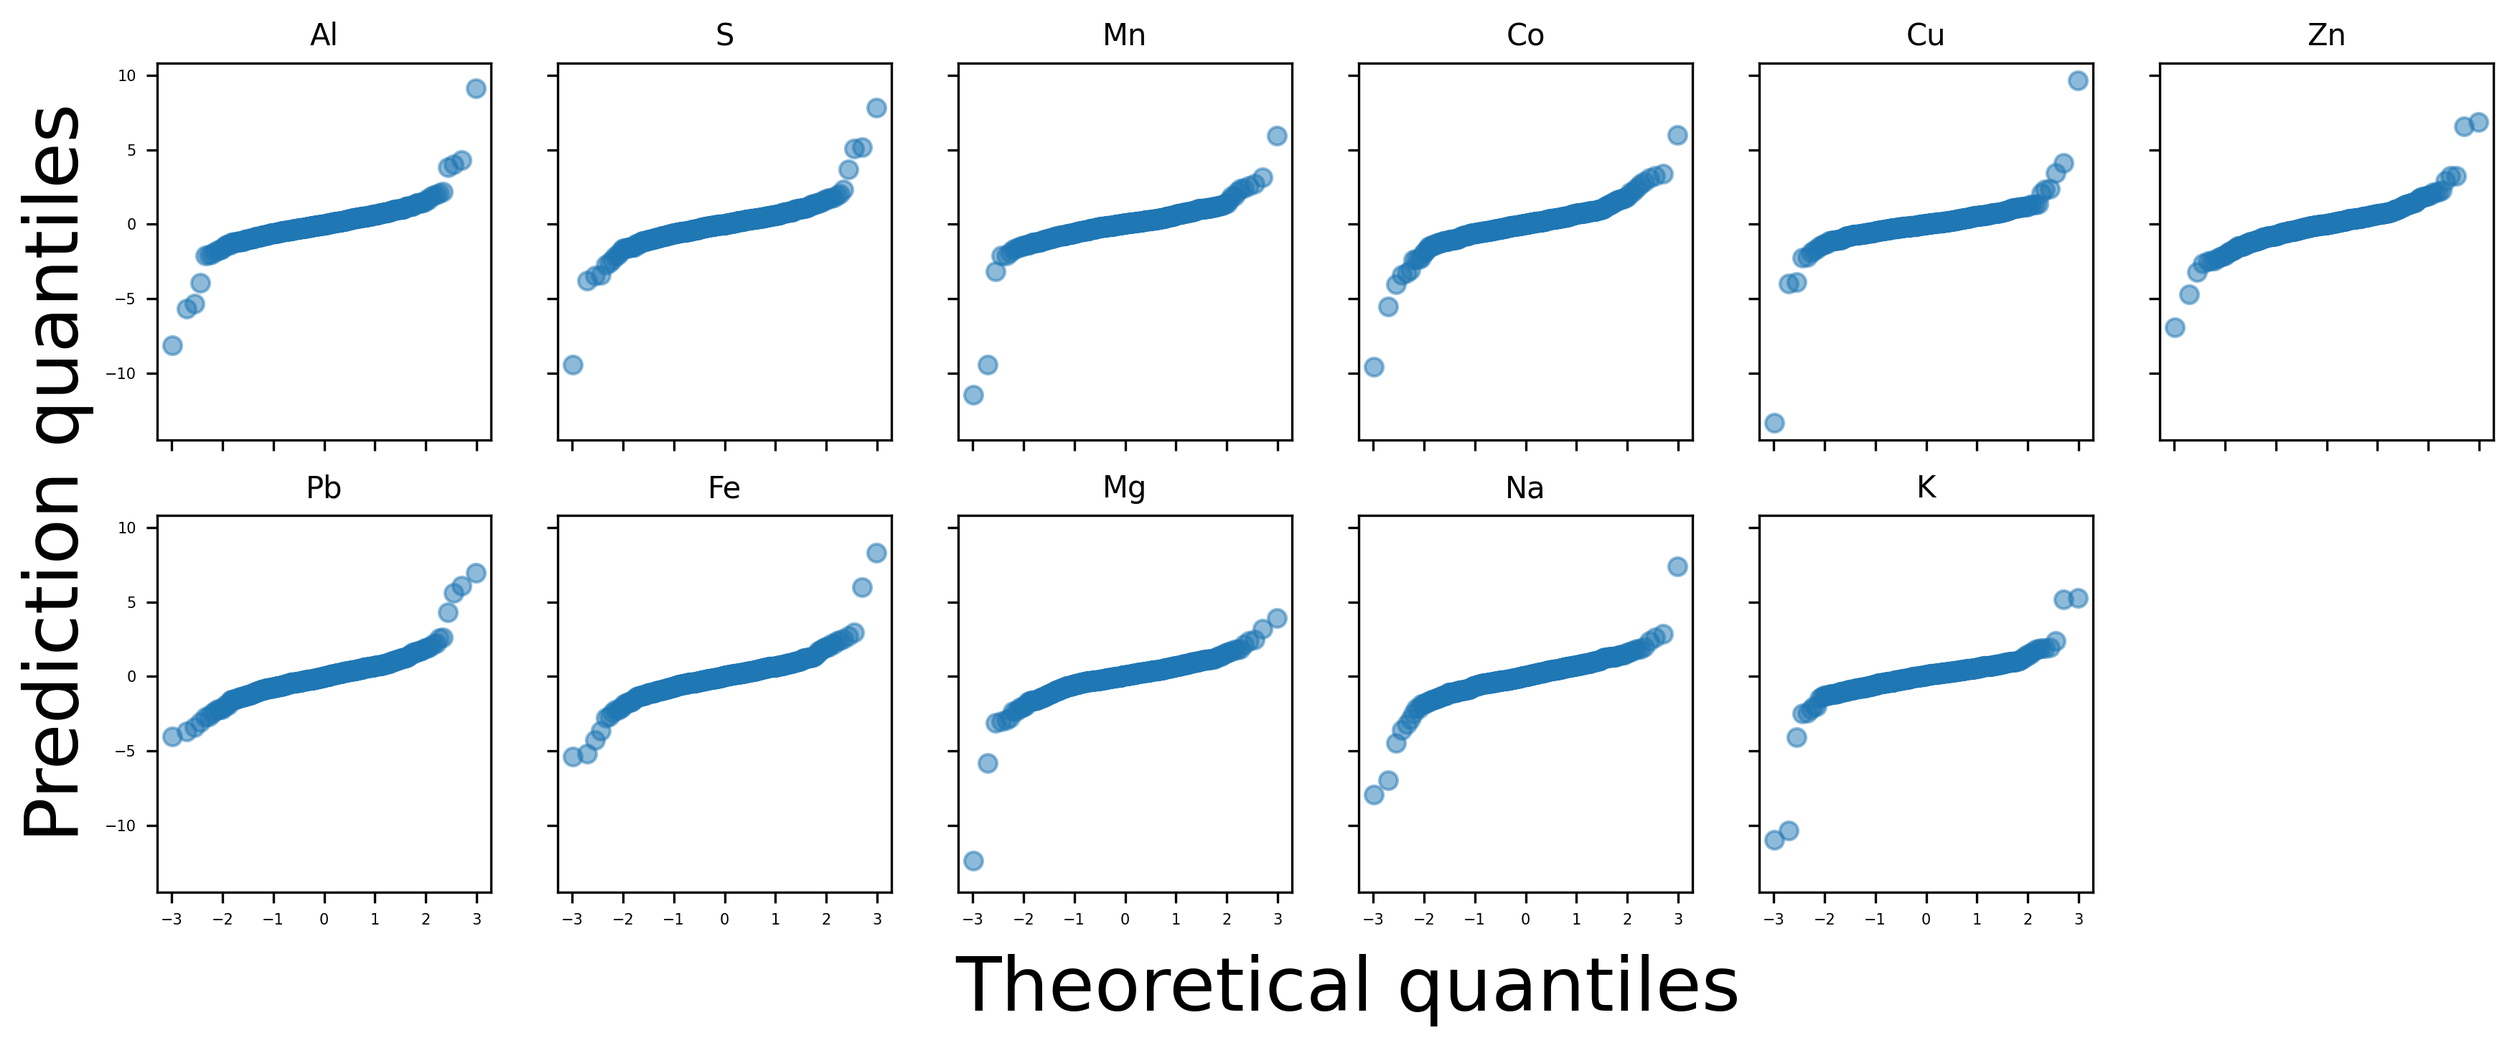
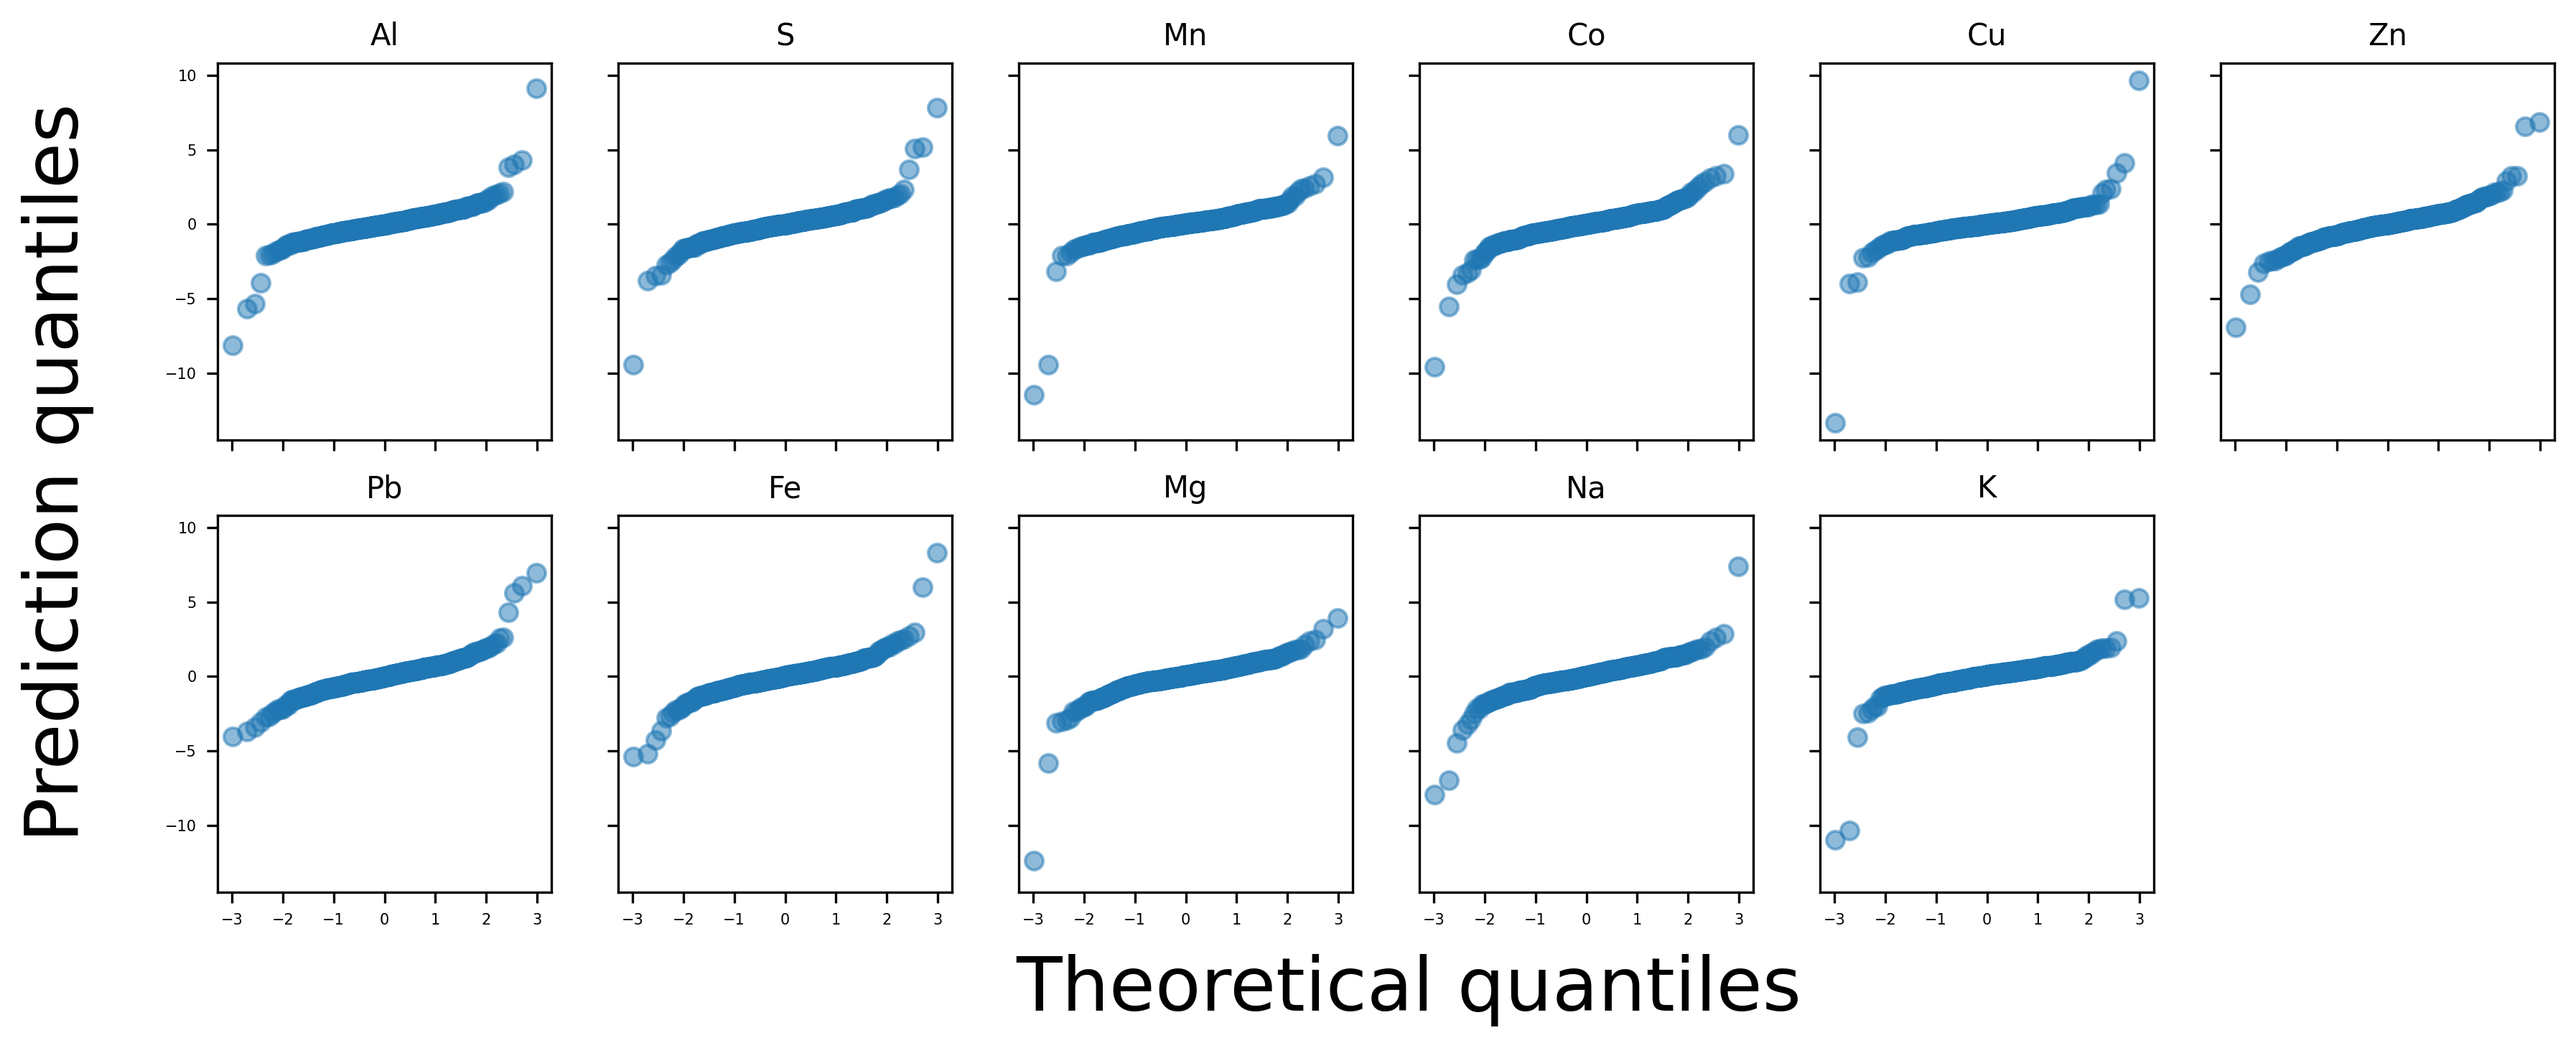
New figure: density overlayed and some small fixes

diff --git a/analysis/4_neural_network_validation.py b/analysis/4_neural_network_validation.py
@@ -161,45 +161,40 @@ print(torch.mean(difference, axis=0))
 # Significance of elements: Cu >> Mn > Al > Zn > Pb > S > Cr > Co >> all the others.
 
 # BASIC DIAGNOSTIC PLOTS
-if mode == "training":
+# if mode == "training":
 
-    plot_pred_vs_gt(to_numpy(outputs), to_numpy(labels), ELEMENTS_TO_KEEP, dims_to_keep=dims_to_keep, nrows=nrows, xlabel='Logarithmed true value', ylabel='Logarithmed prediction', path_to_save=FIGURES_PATH)
+    # plot_pred_vs_gt(to_numpy(outputs), to_numpy(labels), ELEMENTS_TO_KEEP, dims_to_keep=dims_to_keep, nrows=nrows, xlabel='Logarithmed true value', ylabel='Logarithmed prediction', path_to_save=FIGURES_PATH)
 
-    plot_residuals(to_numpy(outputs), to_numpy(labels), ELEMENTS_TO_KEEP, dims_to_keep=dims_to_keep, nrows=nrows, xlabel='Logarithmed true value', path_to_save=FIGURES_PATH)
+    # plot_residuals(to_numpy(outputs), to_numpy(labels), ELEMENTS_TO_KEEP, dims_to_keep=dims_to_keep, nrows=nrows, xlabel='Logarithmed true value', path_to_save=FIGURES_PATH)
 
-    plot_error_distributions(to_numpy(outputs), to_numpy(labels), ELEMENTS_TO_KEEP, dims_to_keep=dims_to_keep, nrows=nrows, xlabel='Residual', ylabel='Count', path_to_save=FIGURES_PATH)
+    # plot_error_distributions(to_numpy(outputs), to_numpy(labels), ELEMENTS_TO_KEEP, dims_to_keep=dims_to_keep, nrows=nrows, xlabel='Residual', ylabel='Count', path_to_save=FIGURES_PATH)
 
-    plot_qq(to_numpy(outputs), to_numpy(labels), ELEMENTS_TO_KEEP, dims_to_keep=dims_to_keep, nrows=nrows, xlabel='Theoretical quantiles', ylabel='Prediction quantiles', path_to_save=FIGURES_PATH)
+#     plot_qq(to_numpy(outputs), to_numpy(labels), ELEMENTS_TO_KEEP, dims_to_keep=dims_to_keep, nrows=nrows, xlabel='Theoretical quantiles', ylabel='Prediction quantiles', path_to_save=FIGURES_PATH)
 
-    plot_error_boxplot(to_numpy(outputs), to_numpy(labels), ELEMENTS_TO_KEEP, dims_to_keep=dims_to_keep, xlabel='', ylabel='Residual', path_to_save=FIGURES_PATH)
 
-    plot_error_violinplot(to_numpy(outputs), to_numpy(labels), ELEMENTS_TO_KEEP, dims_to_keep=dims_to_keep, xlabel='', ylabel='Residual', path_to_save=FIGURES_PATH)
+# if mode == "training_subset":
 
-    plot_correlation_heatmaps(to_numpy(outputs), to_numpy(labels), ELEMENTS_TO_KEEP, xlabel='', ylabel='Residual', cluster=True, path_to_save=FIGURES_PATH)
+#     plot_pred_vs_gt(to_numpy(outputs), to_numpy(labels), ELEMENTS_TO_KEEP, dims_to_keep=[1, 3, 4, 7, 9, 10], nrows=nrows, figsize=(14, 5), xlabel='Logarithmed true value', ylabel='Logarithmed prediction', path_to_save=FIGURES_PATH)
 
-    plot_l2_error(to_numpy(outputs), to_numpy(labels), path_to_save=FIGURES_PATH)
+    # plot_residuals(to_numpy(outputs), to_numpy(labels), ELEMENTS_TO_KEEP, dims_to_keep=dims_to_keep, nrows=nrows, figsize=(8, 5), xlabel='Logarithmed true value', path_to_save=FIGURES_PATH)
 
-    plot_pca_projection(to_numpy(outputs), to_numpy(labels), path_to_save=FIGURES_PATH)
+    # plot_error_distributions(to_numpy(outputs), to_numpy(labels), ELEMENTS_TO_KEEP, dims_to_keep=dims_to_keep, nrows=nrows, figsize=(8, 5), xlabel='Residual', ylabel='Count', path_to_save=FIGURES_PATH)
 
-if mode == "training_subset":
+    # plot_qq(to_numpy(outputs), to_numpy(labels), ELEMENTS_TO_KEEP, dims_to_keep=dims_to_keep, nrows=nrows, figsize=(8, 5), xlabel='Theoretical quantiles', ylabel='Prediction quantiles', path_to_save=FIGURES_PATH)
 
-    plot_pred_vs_gt(to_numpy(outputs), to_numpy(labels), ELEMENTS_TO_KEEP, dims_to_keep=[1, 3, 4, 7, 9, 10], nrows=nrows, figsize=(14, 5), xlabel='Logarithmed true value', ylabel='Logarithmed prediction', path_to_save=FIGURES_PATH)
+# plot_error_boxplot(to_numpy(outputs), to_numpy(labels), ELEMENTS_TO_KEEP, dims_to_keep='all', xlabel='', ylabel='Residual', path_to_save=FIGURES_PATH)
 
-    plot_residuals(to_numpy(outputs), to_numpy(labels), ELEMENTS_TO_KEEP, dims_to_keep=dims_to_keep, nrows=nrows, figsize=(8, 5), xlabel='Logarithmed true value', path_to_save=FIGURES_PATH)
+# plot_error_violinplot(to_numpy(outputs), to_numpy(labels), ELEMENTS_TO_KEEP, dims_to_keep='all', xlabel='', ylabel='Residual', path_to_save=FIGURES_PATH)
 
-    plot_error_distributions(to_numpy(outputs), to_numpy(labels), ELEMENTS_TO_KEEP, dims_to_keep=dims_to_keep, nrows=nrows, figsize=(8, 5), xlabel='Residual', ylabel='Count', path_to_save=FIGURES_PATH)
+# plot_correlation_heatmaps(to_numpy(outputs), to_numpy(labels), ELEMENTS_TO_KEEP, xlabel='', ylabel='Residual', cluster=True, path_to_save=FIGURES_PATH)
 
-    plot_qq(to_numpy(outputs), to_numpy(labels), ELEMENTS_TO_KEEP, dims_to_keep=dims_to_keep, nrows=nrows, figsize=(8, 5), xlabel='Theoretical quantiles', ylabel='Prediction quantiles', path_to_save=FIGURES_PATH)
+# plot_l1_error(to_numpy(outputs), to_numpy(labels), path_to_save=FIGURES_PATH)
 
-    plot_error_boxplot(to_numpy(outputs), to_numpy(labels), ELEMENTS_TO_KEEP, dims_to_keep='all', xlabel='', ylabel='Residual', path_to_save=FIGURES_PATH)
+plot_l1_error_with_density(to_numpy(outputs), to_numpy(labels), path_to_save=FIGURES_PATH)
 
-    plot_error_violinplot(to_numpy(outputs), to_numpy(labels), ELEMENTS_TO_KEEP, dims_to_keep='all', xlabel='', ylabel='Residual', path_to_save=FIGURES_PATH)
+# plot_pca_projection(to_numpy(outputs), to_numpy(labels), path_to_save=FIGURES_PATH)
 
-    plot_correlation_heatmaps(to_numpy(outputs), to_numpy(labels), ELEMENTS_TO_KEEP, xlabel='', ylabel='Residual', cluster=True, path_to_save=FIGURES_PATH)
 
-    plot_l2_error(to_numpy(outputs), to_numpy(labels), path_to_save=FIGURES_PATH)
-
-    plot_pca_projection(to_numpy(outputs), to_numpy(labels), path_to_save=FIGURES_PATH)
 
 
 # for element_nr, element in enumerate(ELEMENTS_TO_KEEP):
@@ -239,20 +234,20 @@ precision, recall = compute_precision_and_recall(outputs_df)
 y_true = outputs_df['Real sample_id']
 y_pred = outputs_df['Closest sample id']
 
-plot_topk_confusion(y_true, y_pred, top_k=20, path_to_save=FIGURES_PATH)
+# plot_topk_confusion(y_true, y_pred, top_k=20, path_to_save=FIGURES_PATH)
 
-plot_prf_distribution_subplots(y_true, y_pred, path_to_save=FIGURES_PATH)
+# plot_prf_distribution_subplots(y_true, y_pred, path_to_save=FIGURES_PATH)
 
-plot_freq_vs_f1(y_true, y_pred, path_to_save=FIGURES_PATH)
+# plot_freq_vs_f1(y_true, y_pred, path_to_save=FIGURES_PATH)
 
 
 # CLASSIFICATION-BASED STATISTICS AND VISUALISATIONS PART 2
 
 
-plot_confusion_matrix(true_labels = outputs_df['Real sample_id'], 
-                      closest_labels = outputs_df['Closest sample id'], 
-                      normalization_in_conf_mat = None, 
-                      path_to_save = FIGURES_PATH)
+# plot_confusion_matrix(true_labels = outputs_df['Real sample_id'], 
+#                       closest_labels = outputs_df['Closest sample id'], 
+#                       normalization_in_conf_mat = None, 
+#                       path_to_save = FIGURES_PATH)
 
 
 # Quality of prediction: confidence intervals

diff --git a/src/train_and_evaluate.py b/src/train_and_evaluate.py
@@ -17,6 +17,7 @@ from scipy.stats import probplot
 from scipy.cluster.hierarchy import linkage, leaves_list
 from sklearn.decomposition import PCA
 from collections import Counter
+from astropy.convolution import Gaussian2DKernel, convolve
 
 import torch.optim as optim
 import optuna
@@ -287,7 +288,7 @@ def plot_pred_vs_gt(outputs, labels, elements_to_keep, dims_to_keep='all', nrows
 
         text = f"R$^2$={metrics['r2'][i]:.2f} \nMAE={metrics['mae'][i]:.2f} \nRMSE={metrics['rmse'][i]:.2f}"
 
-        ax.text(min_val, max_val-(0.13*nrows)*(max_val-min_val), text)
+        ax.text(min_val, max_val-(0.10+0.16*(nrows-1))*(max_val-min_val), text)
         #ax.text(min_val, y_max_max-0.45*nrows, text)
 
         ax.set_title(title, size=10)
@@ -297,7 +298,7 @@ def plot_pred_vs_gt(outputs, labels, elements_to_keep, dims_to_keep='all', nrows
         axes[-1].set_axis_off()
 
     fig.text(0.52, 0.0, xlabel, ha='center', size=25)
-    fig.text(0.06, 0.55, ylabel, va='center', rotation='vertical', size=25)
+    fig.text(0.08, 0.5, ylabel, va='center', rotation='vertical', size=25)
 
     #plt.tight_layout()
     if path_to_save:
@@ -345,7 +346,7 @@ def plot_residuals(outputs, labels, elements_to_keep, dims_to_keep='all', nrows=
         y_max = (y_pred-y_true).max()
         y_min = (y_pred-y_true).min()
         text = 'Mean residual: \n' + str(np.round(mean_res, 3))
-        ax.text(min_val, y_max_max-0.45*nrows, text)
+        ax.text(min_val, y_max_max-0.25-0.65*(nrows-1), text)
 
         ax.tick_params(axis='both', labelsize=5)
         ax.set_title(title, size=10)
@@ -353,8 +354,8 @@ def plot_residuals(outputs, labels, elements_to_keep, dims_to_keep='all', nrows=
     if nrows==2:
         axes[-1].set_axis_off()
 
-    fig.text(0.52, 0.0, xlabel, ha='center', size=25)
-    fig.text(0.06, 0.55, ylabel, va='center', rotation='vertical', size=25)
+    fig.text(0.5, 0.0, xlabel, ha='center', size=25)
+    fig.text(0.04, 0.5, ylabel, va='center', rotation='vertical', size=25)
 
     #plt.tight_layout()
     if path_to_save:
@@ -453,7 +454,7 @@ def plot_qq(outputs, labels, elements_to_keep, dims_to_keep='all', nrows=2, figs
         axes[-1].set_axis_off()
 
     fig.text(0.52, 0.0, xlabel, ha='center', size=25)
-    fig.text(0.08, 0.5, ylabel, va='center', rotation='vertical', size=25)
+    fig.text(0.06, 0.5, ylabel, va='center', rotation='vertical', size=25)
 
     #plt.tight_layout()
     if path_to_save:
@@ -478,7 +479,7 @@ def plot_error_boxplot(outputs, labels, elements_to_keep, dims_to_keep='all', fi
     ax = sns.boxplot(data=residuals_all)
     fig.text(0.52, 0.03, xlabel, ha='center', size=25)
     fig.text(0.05, 0.5, ylabel, va='center', rotation='vertical', size=25)
-    ax.set_xticklabels(elements_to_keep, size=10)
+    ax.set_xticklabels(elements_to_keep, size=25)
     ax.tick_params(axis='y', labelsize=5)
 
     if path_to_save:
@@ -503,7 +504,7 @@ def plot_error_violinplot(outputs, labels, elements_to_keep, dims_to_keep='all',
     ax = sns.violinplot(data=residuals_all)
     fig.text(0.52, 0.03, xlabel, ha='center', size=25)
     fig.text(0.05, 0.5, ylabel, va='center', rotation='vertical', size=25)
-    ax.set_xticklabels(elements_to_keep, size=10)
+    ax.set_xticklabels(elements_to_keep, size=25)
     ax.tick_params(axis='y', labelsize=5)
 
     if path_to_save:
@@ -574,7 +575,7 @@ def plot_correlation_heatmaps_for_target_data(prediction, elements_to_keep, data
     plt.close(fig)
 
 
-def plot_l2_error(outputs, labels, figsize=(10, 5), path_to_save=None):
+def plot_l1_error(outputs, labels, figsize=(10, 5), path_to_save=None):
 
     l2_error = np.sum(np.abs(outputs - labels), axis=1)
 
@@ -588,6 +589,44 @@ def plot_l2_error(outputs, labels, figsize=(10, 5), path_to_save=None):
 
     if path_to_save:
         plt.savefig(path_to_save+'global_error_vs_magnitude.png', dpi=300, bbox_inches="tight")
+    plt.show()
+    plt.close(fig)
+
+def plot_l1_error_with_density(outputs, labels, figsize=(10, 5), path_to_save=None):
+
+    l2_error = np.sum(np.abs(outputs - labels), axis=1)
+
+    true_norm = np.sum(np.abs(labels), axis=1)
+
+    fig, ax = plt.subplots(1, figsize=(8, 5)) 
+
+    #ax.plot(true_norm[~inside], l2_error[~inside], 'bo', mfc='none')
+    ax.plot(true_norm, l2_error, 'bo', mfc='none')
+
+    H, xedges, yedges = np.histogram2d(true_norm, l2_error, bins=(50,40))
+    xmesh, ymesh = np.meshgrid(xedges[:-1], yedges[:-1])
+
+    kernel = Gaussian2DKernel(1.)
+    H = convolve(H, kernel)
+
+    levels = np.linspace(H.min(), H.max(), 10)
+    levels = levels[1:]  # skip the outermost (lowest) level
+
+    clevels = ax.contour(xmesh, ymesh, H.T, levels=levels, lw=.9, cmap='jet')
+
+    p = clevels.get_paths()
+    inside = np.full_like(true_norm, False, dtype=bool)
+    for level in p:
+    #     inside |= level.contains_points(zip(*(true_norm, l2_error)))
+        points = np.column_stack((true_norm, l2_error))
+        inside |= level.contains_points(points)
+
+    plt.xlabel("Sum of true magnitudes", size=25)
+    plt.ylabel("L1 error of prediction", size=25)
+    plt.tick_params(axis='both', labelsize=5)
+
+    if path_to_save:
+        plt.savefig(path_to_save+'global_error_vs_magnitude_with_density.png', dpi=300, bbox_inches="tight")
     plt.show()
     plt.close(fig)
 
@@ -810,7 +849,7 @@ def compute_precision_and_recall(outputs_df):
 def get_sample_number_in_group(original_labels):
     return np.array(original_labels.apply(lambda x: int(x.split('_')[-1])).values)
 
-def plot_confusion_matrix(true_labels, closest_labels, normalization_in_conf_mat = None, figsize=(7.5,5), path_to_save = None):
+def plot_confusion_matrix(true_labels, closest_labels, normalization_in_conf_mat = None, figsize=(7.5, 5), path_to_save = None):
 
     conf_mat = confusion_matrix(true_labels, closest_labels, 
                                 normalize=normalization_in_conf_mat)
